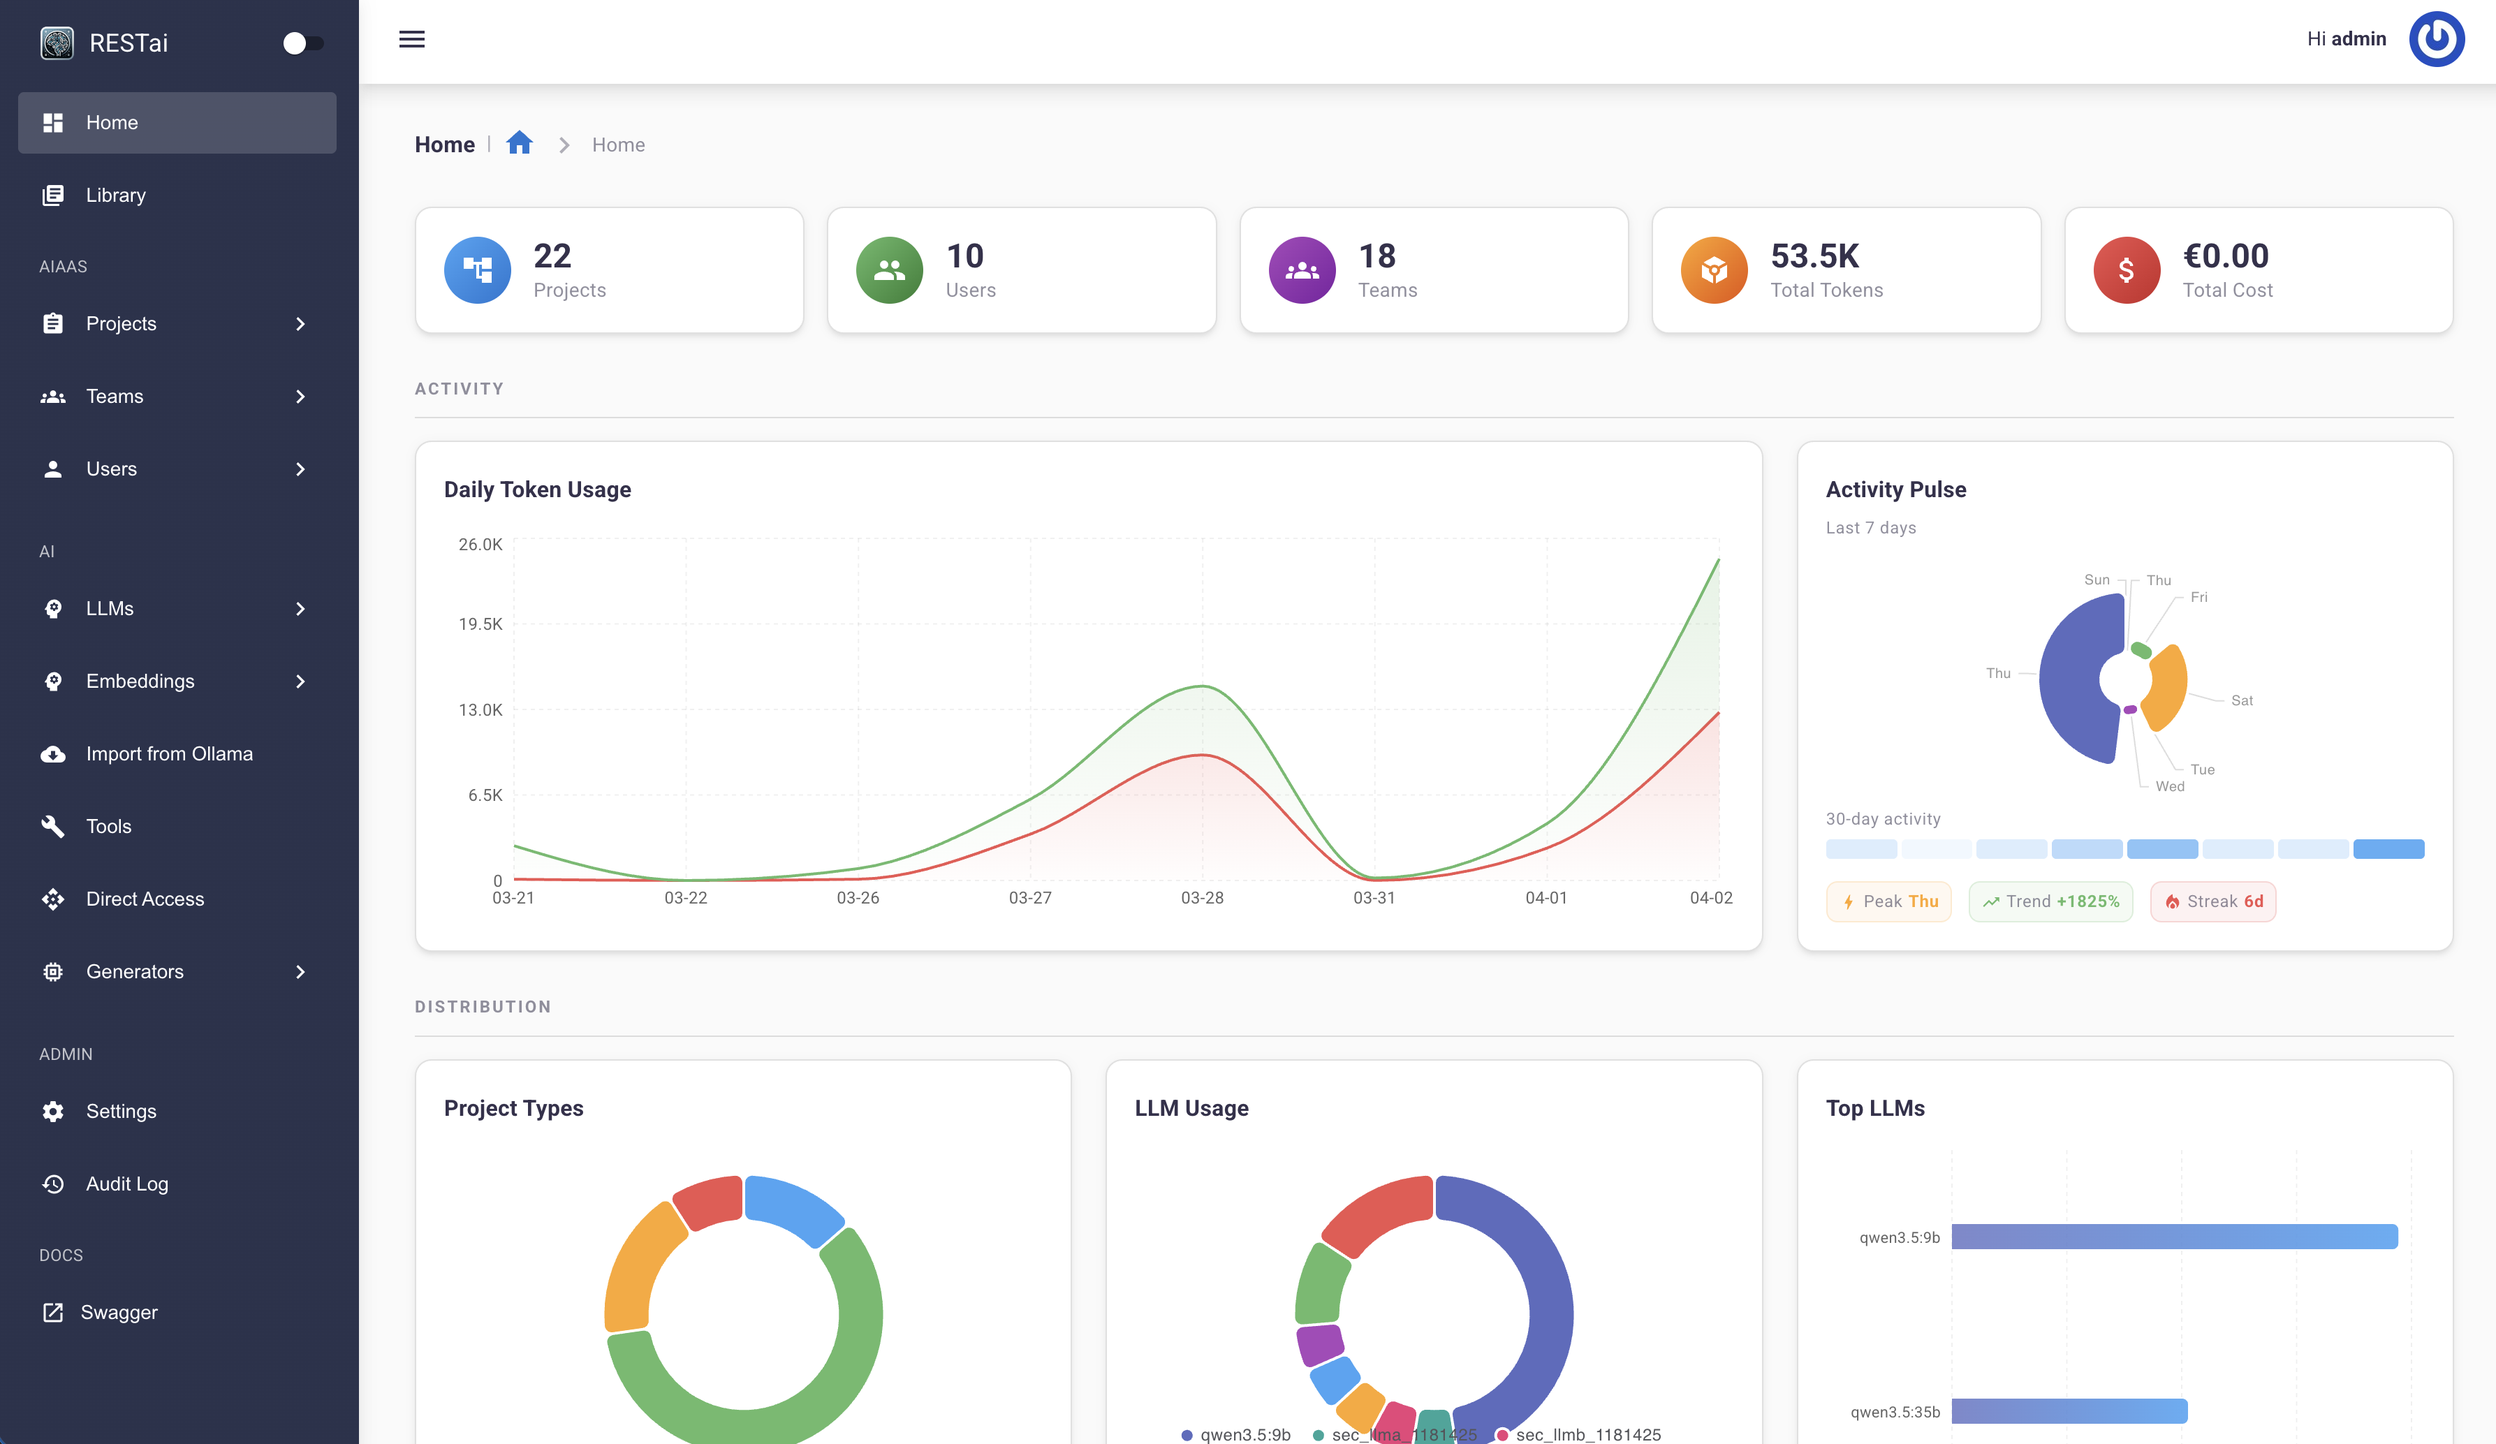
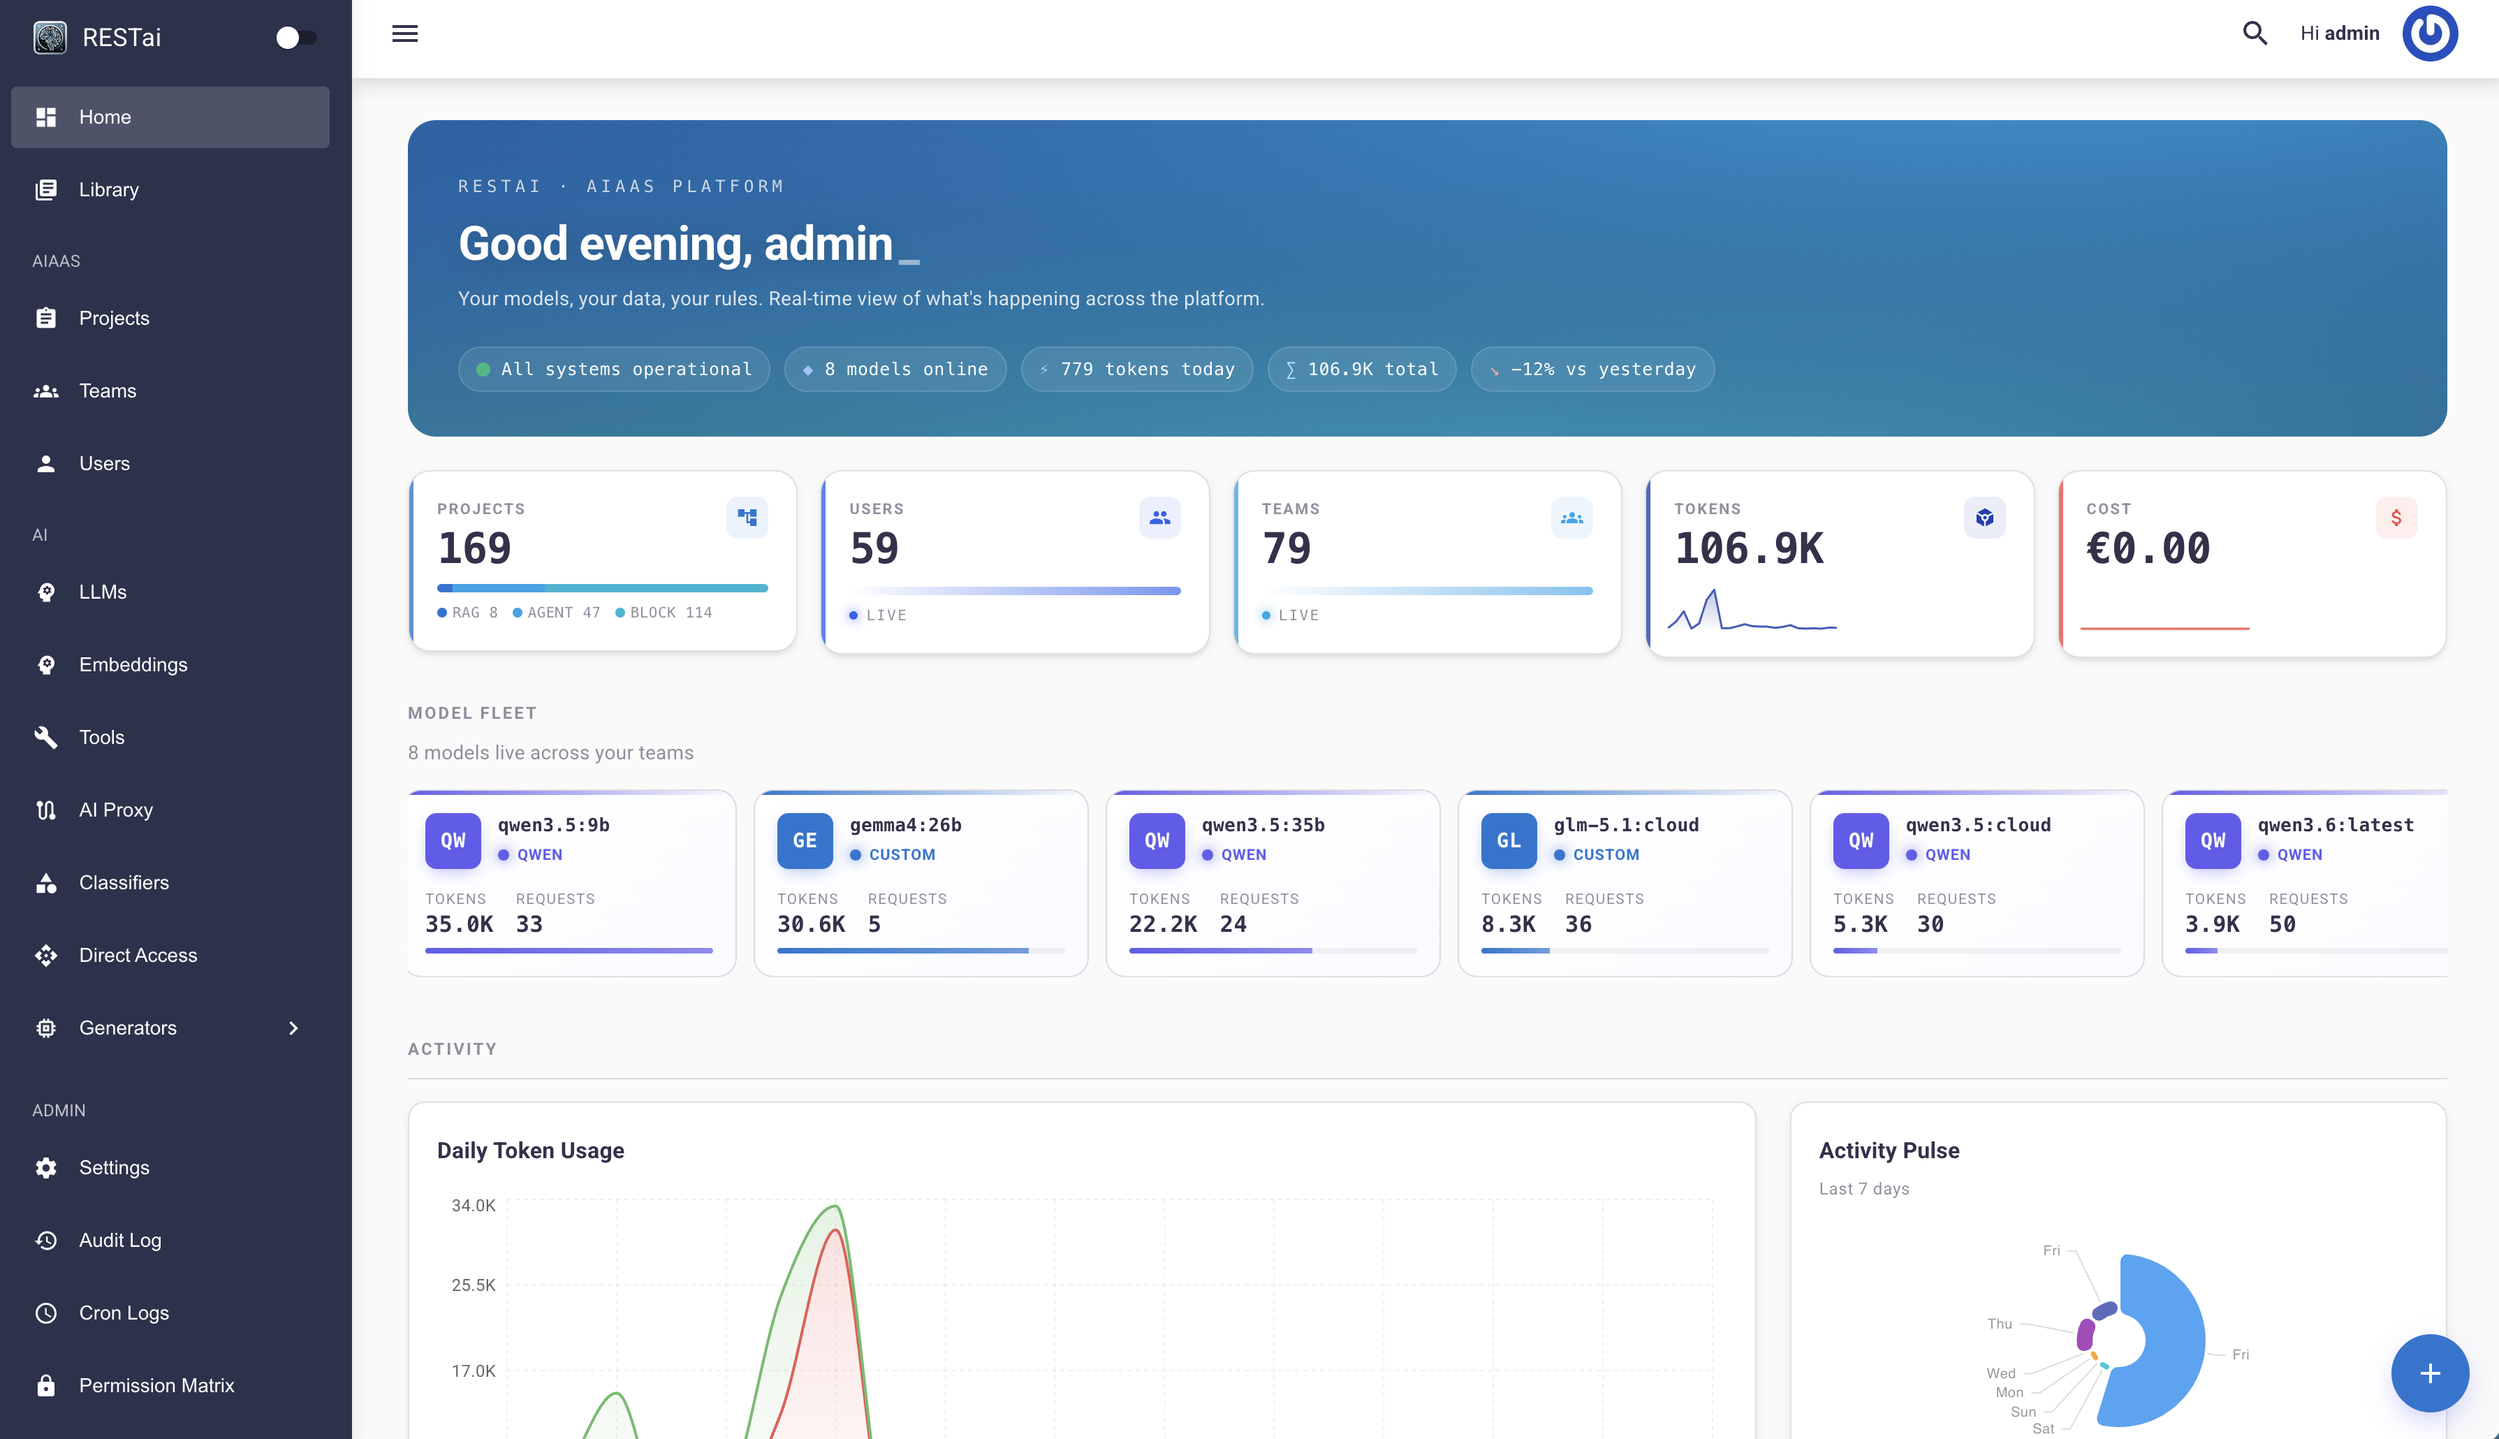
feat: add breakdown and pulse bar components to ProjectsStats

diff --git a/frontend/src/app/views/dashboard/shared/ProjectsStats.jsx b/frontend/src/app/views/dashboard/shared/ProjectsStats.jsx
@@ -1,4 +1,4 @@
-import { Card, Grid, Box, Typography, styled } from "@mui/material";
+import { Card, Grid, Box, Typography, styled, keyframes } from "@mui/material";
 import {
   AccountTree, People, Groups, Token, AttachMoney, Speed,
 } from "@mui/icons-material";
@@ -13,6 +13,14 @@ function formatNumber(num) {
   if (num >= 10_000) return (num / 1_000).toFixed(1) + "K";
   return num.toLocaleString();
 }
+
+// Slow sweep used on the decorative accent strip (Users/Teams cards
+// that have no real sparkline data). Cheaper than an SVG animation and
+// visually implies "live" without being flashy.
+const sweep = keyframes`
+  0%   { background-position:   0% 0; }
+  100% { background-position: 200% 0; }
+`;
 
 // Inline SVG sparkline — no chart lib, so it stays cheap to render even
 // when six cards render at once. Values normalize to [0, 1] against the
@@ -60,6 +68,123 @@ function Sparkline({ values, accent }) {
   );
 }
 
+// Stacked horizontal bar for categorical breakdowns (e.g. project
+// types). Each segment gets its own color and the widths are
+// proportional to counts. Used on the Projects card so it visually
+// matches the cards that have sparklines.
+function Breakdown({ items, accent }) {
+  const total = items.reduce((s, i) => s + (i.count || 0), 0);
+  if (total === 0) return null;
+  return (
+    <Box sx={{ mt: 1.25 }}>
+      <Box
+        sx={{
+          height: 6,
+          borderRadius: 999,
+          display: "flex",
+          overflow: "hidden",
+          background: (theme) =>
+            theme.palette.mode === "dark"
+              ? "rgba(255,255,255,0.06)"
+              : "rgba(0,0,0,0.04)",
+        }}
+      >
+        {items.map((item, i) => {
+          const pct = (item.count / total) * 100;
+          if (pct <= 0) return null;
+          return (
+            <Box
+              key={i}
+              sx={{
+                width: `${pct}%`,
+                height: "100%",
+                background: item.color || accent,
+                transition: "width 0.3s",
+              }}
+              title={`${item.label}: ${item.count}`}
+            />
+          );
+        })}
+      </Box>
+      <Box sx={{ mt: 0.75, display: "flex", flexWrap: "wrap", gap: 1.25 }}>
+        {items.filter((i) => i.count > 0).map((item, i) => (
+          <Box key={i} sx={{ display: "flex", alignItems: "center", gap: 0.5 }}>
+            <Box
+              sx={{
+                width: 7,
+                height: 7,
+                borderRadius: "50%",
+                background: item.color || accent,
+              }}
+            />
+            <Typography
+              variant="caption"
+              sx={{
+                fontSize: "0.65rem",
+                fontFamily: '"JetBrains Mono", "SF Mono", Menlo, Consolas, monospace',
+                color: "text.secondary",
+                letterSpacing: 0.3,
+              }}
+            >
+              {item.label.toUpperCase()} {item.count}
+            </Typography>
+          </Box>
+        ))}
+      </Box>
+    </Box>
+  );
+}
+
+// Decorative accent strip for cards that have neither a sparkline nor
+// a breakdown (Users, Teams). A gradient bar with a slow sweep so the
+// row carries the same visual weight as a sparkline without pretending
+// to show data that doesn't exist.
+function PulseBar({ accent }) {
+  return (
+    <Box sx={{ mt: 1.5 }}>
+      <Box
+        sx={{
+          height: 6,
+          borderRadius: 999,
+          background: `linear-gradient(90deg, ${accent}00 0%, ${accent}55 25%, ${accent}aa 50%, ${accent}55 75%, ${accent}00 100%)`,
+          backgroundSize: "200% 100%",
+          animation: `${sweep} 4s ease-in-out infinite`,
+        }}
+      />
+      <Box
+        sx={{
+          mt: 0.75,
+          display: "flex",
+          alignItems: "center",
+          gap: 0.75,
+        }}
+      >
+        <Box
+          sx={{
+            width: 6,
+            height: 6,
+            borderRadius: "50%",
+            background: accent,
+            boxShadow: `0 0 8px ${accent}`,
+          }}
+        />
+        <Typography
+          variant="caption"
+          sx={{
+            fontSize: "0.65rem",
+            fontFamily: '"JetBrains Mono", "SF Mono", Menlo, Consolas, monospace',
+            color: "text.secondary",
+            letterSpacing: 1.2,
+            textTransform: "uppercase",
+          }}
+        >
+          live
+        </Typography>
+      </Box>
+    </Box>
+  );
+}
+
 const StatRoot = styled(Card, {
   shouldForwardProp: (p) => p !== "accent",
 })(({ theme, accent }) => ({
@@ -91,7 +216,11 @@ const StatRoot = styled(Card, {
   },
 }));
 
-function StatCard({ icon: Icon, value, label, accent, sparkline }) {
+function StatCard({ icon: Icon, value, label, accent, sparkline, breakdown }) {
+  const hasSparkline = sparkline && sparkline.length >= 2;
+  const hasBreakdown =
+    breakdown && breakdown.length > 0 && breakdown.some((b) => (b.count || 0) > 0);
+
   return (
     <StatRoot elevation={0} accent={accent}>
       <Box sx={{ display: "flex", justifyContent: "space-between", alignItems: "flex-start", gap: 1 }}>
@@ -141,10 +270,17 @@ function StatCard({ icon: Icon, value, label, accent, sparkline }) {
         </Box>
       </Box>
 
-      {sparkline && sparkline.length >= 2 && (
+      {/* Footer: sparkline > breakdown > pulse bar, picked in that order so
+          every card has the same visual weight/height regardless of whether
+          its metric has time-series data. */}
+      {hasSparkline ? (
         <Box sx={{ mt: 1.5, mx: -0.5, opacity: 0.85 }}>
           <Sparkline values={sparkline} accent={accent} />
         </Box>
+      ) : hasBreakdown ? (
+        <Breakdown items={breakdown} accent={accent} />
+      ) : (
+        <PulseBar accent={accent} />
       )}
     </StatRoot>
   );
@@ -181,12 +317,32 @@ export default function ProjectsStats({
   const accentCyan     = "#06b6d4";
   const accentRose     = "#ef4444"; // cost — money = red
 
+  // Project type breakdown for the Projects card footer. Counts rag /
+  // agent / block from the projects list so the card matches height
+  // with the sparkline cards without rendering a fake time series.
+  const typeCounts = projects.reduce(
+    (acc, p) => {
+      const t = (p.type || "").toLowerCase();
+      if (t === "rag") acc.rag += 1;
+      else if (t === "agent") acc.agent += 1;
+      else if (t === "block") acc.block += 1;
+      return acc;
+    },
+    { rag: 0, agent: 0, block: 0 }
+  );
+  const projectBreakdown = [
+    { label: t("projects.type.rag"), count: typeCounts.rag, color: "#1976d2" },
+    { label: t("projects.type.agent"), count: typeCounts.agent, color: "#0ea5e9" },
+    { label: t("projects.type.block"), count: typeCounts.block, color: "#06b6d4" },
+  ];
+
   const cards = [
     {
       icon: AccountTree,
       value: summary ? summary.total_projects : projects.length,
       label: t("dashboard.stats.projects"),
       accent: accentPrimary,
+      breakdown: projectBreakdown,
     },
     {
       icon: People,
